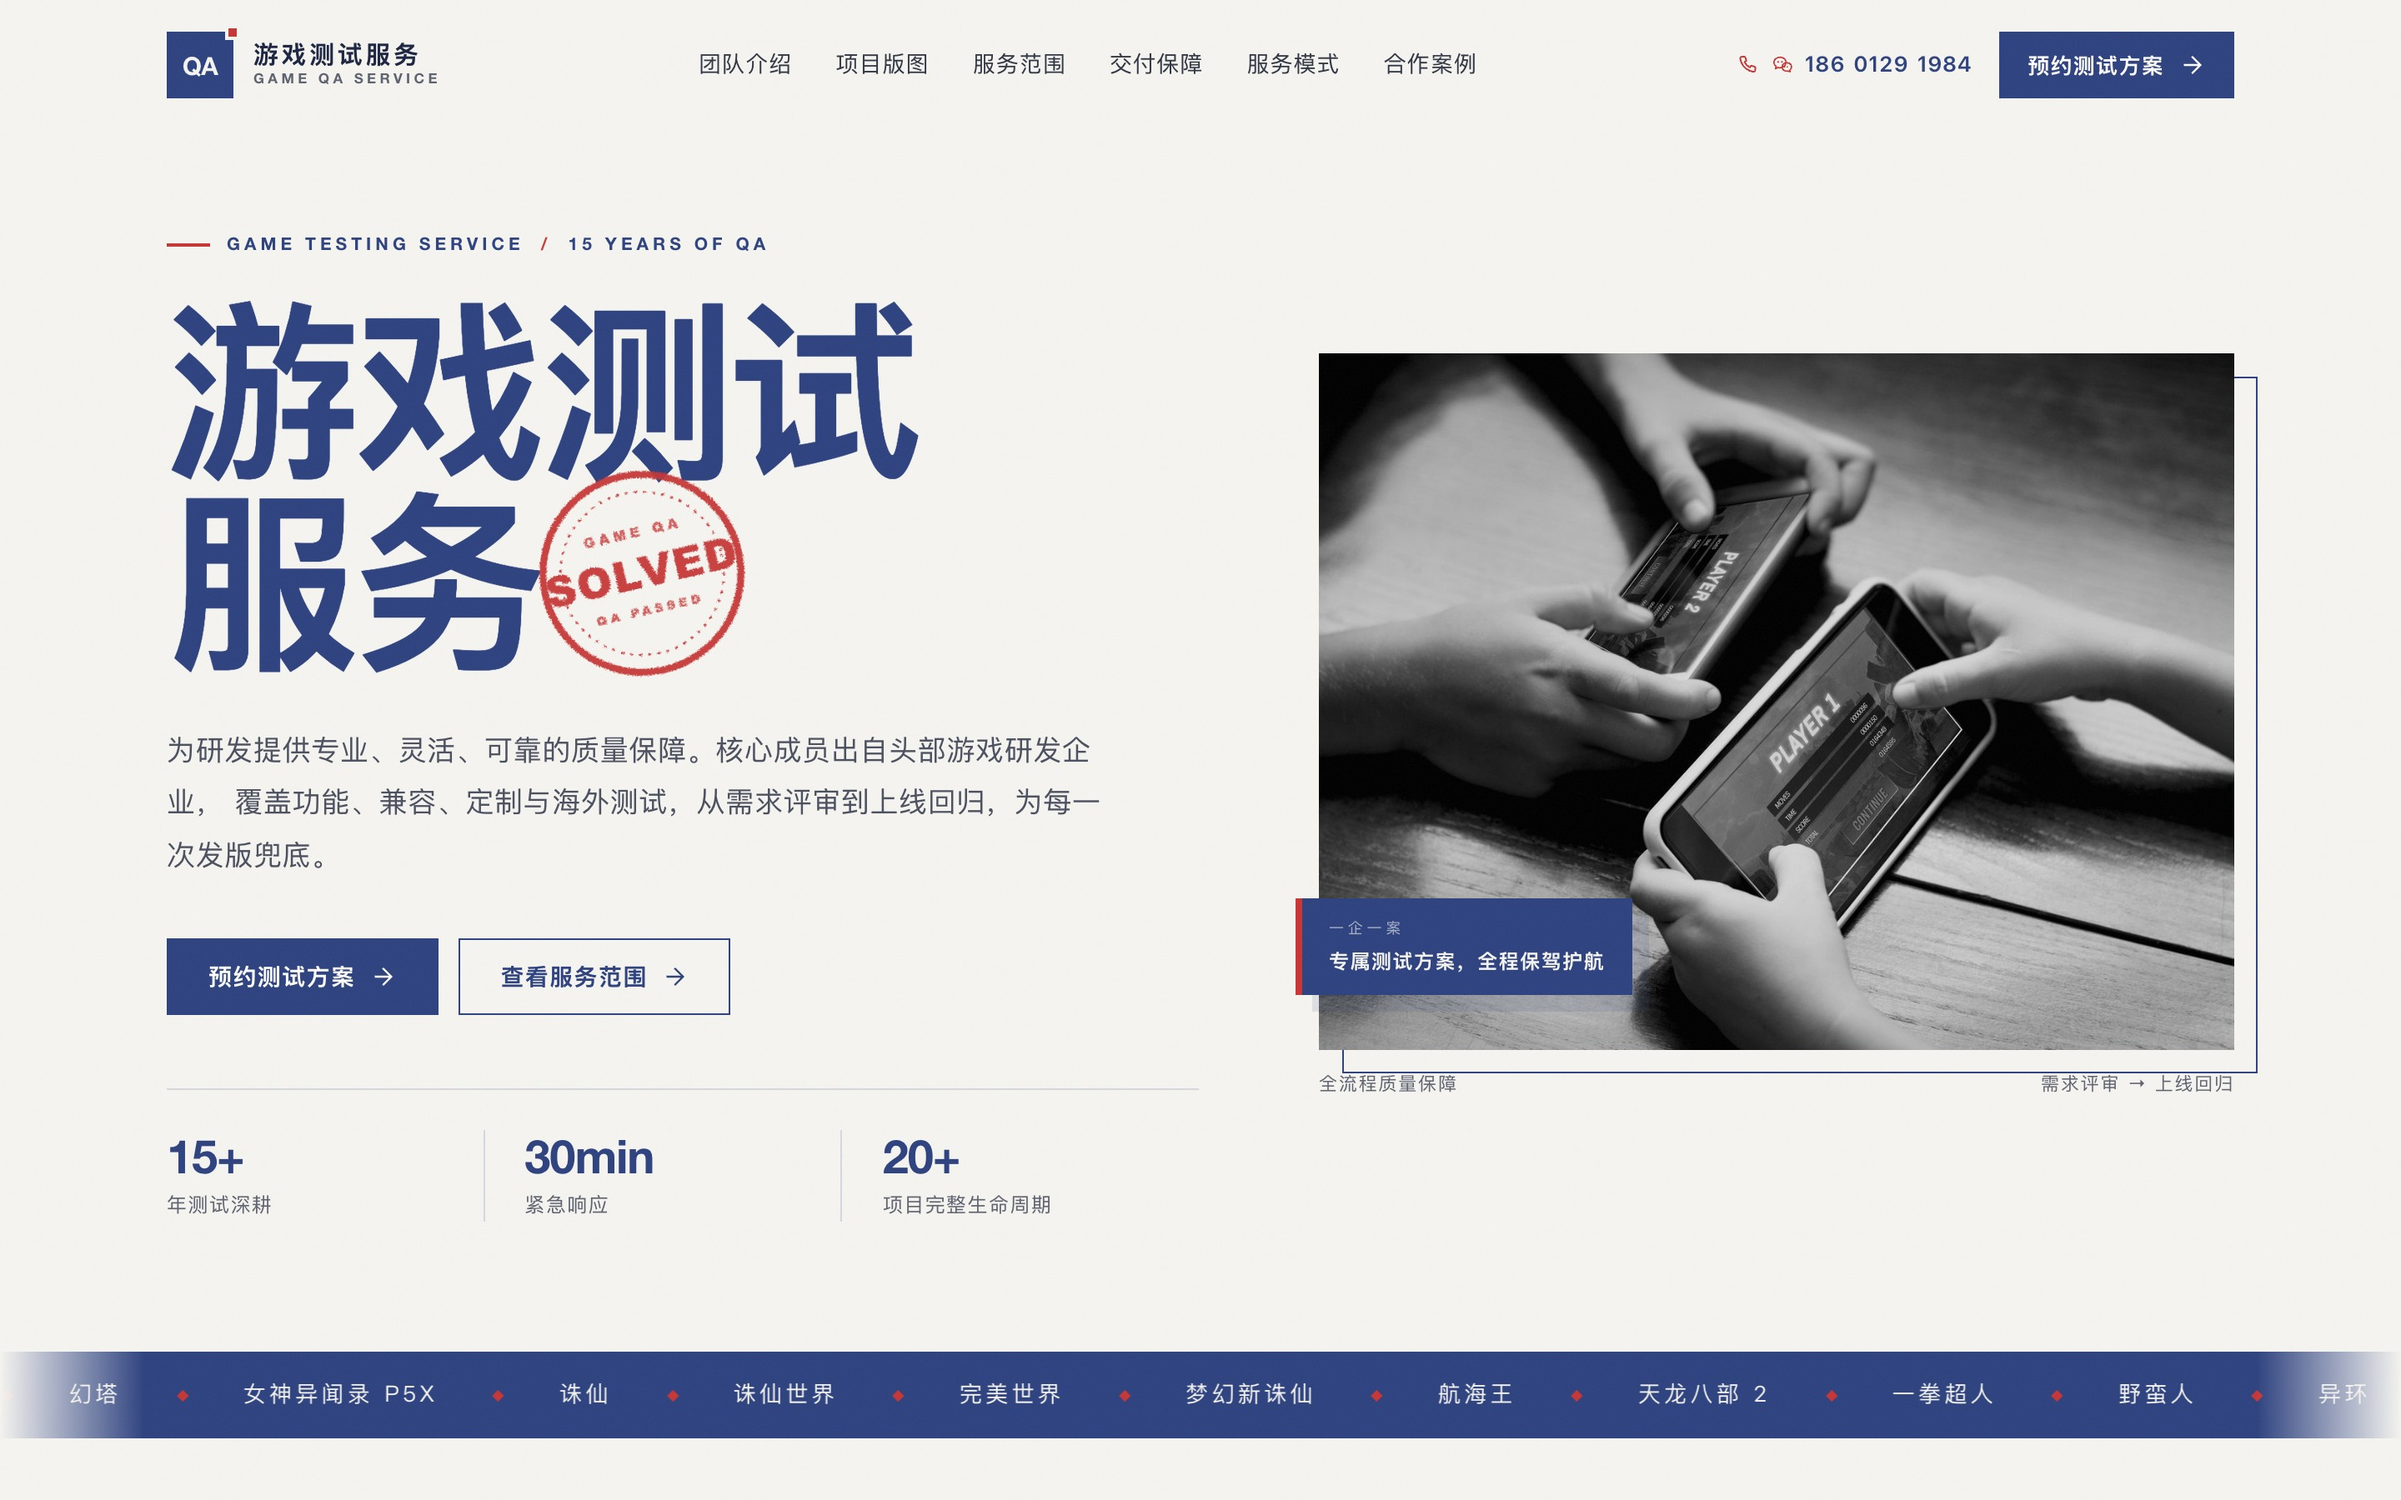
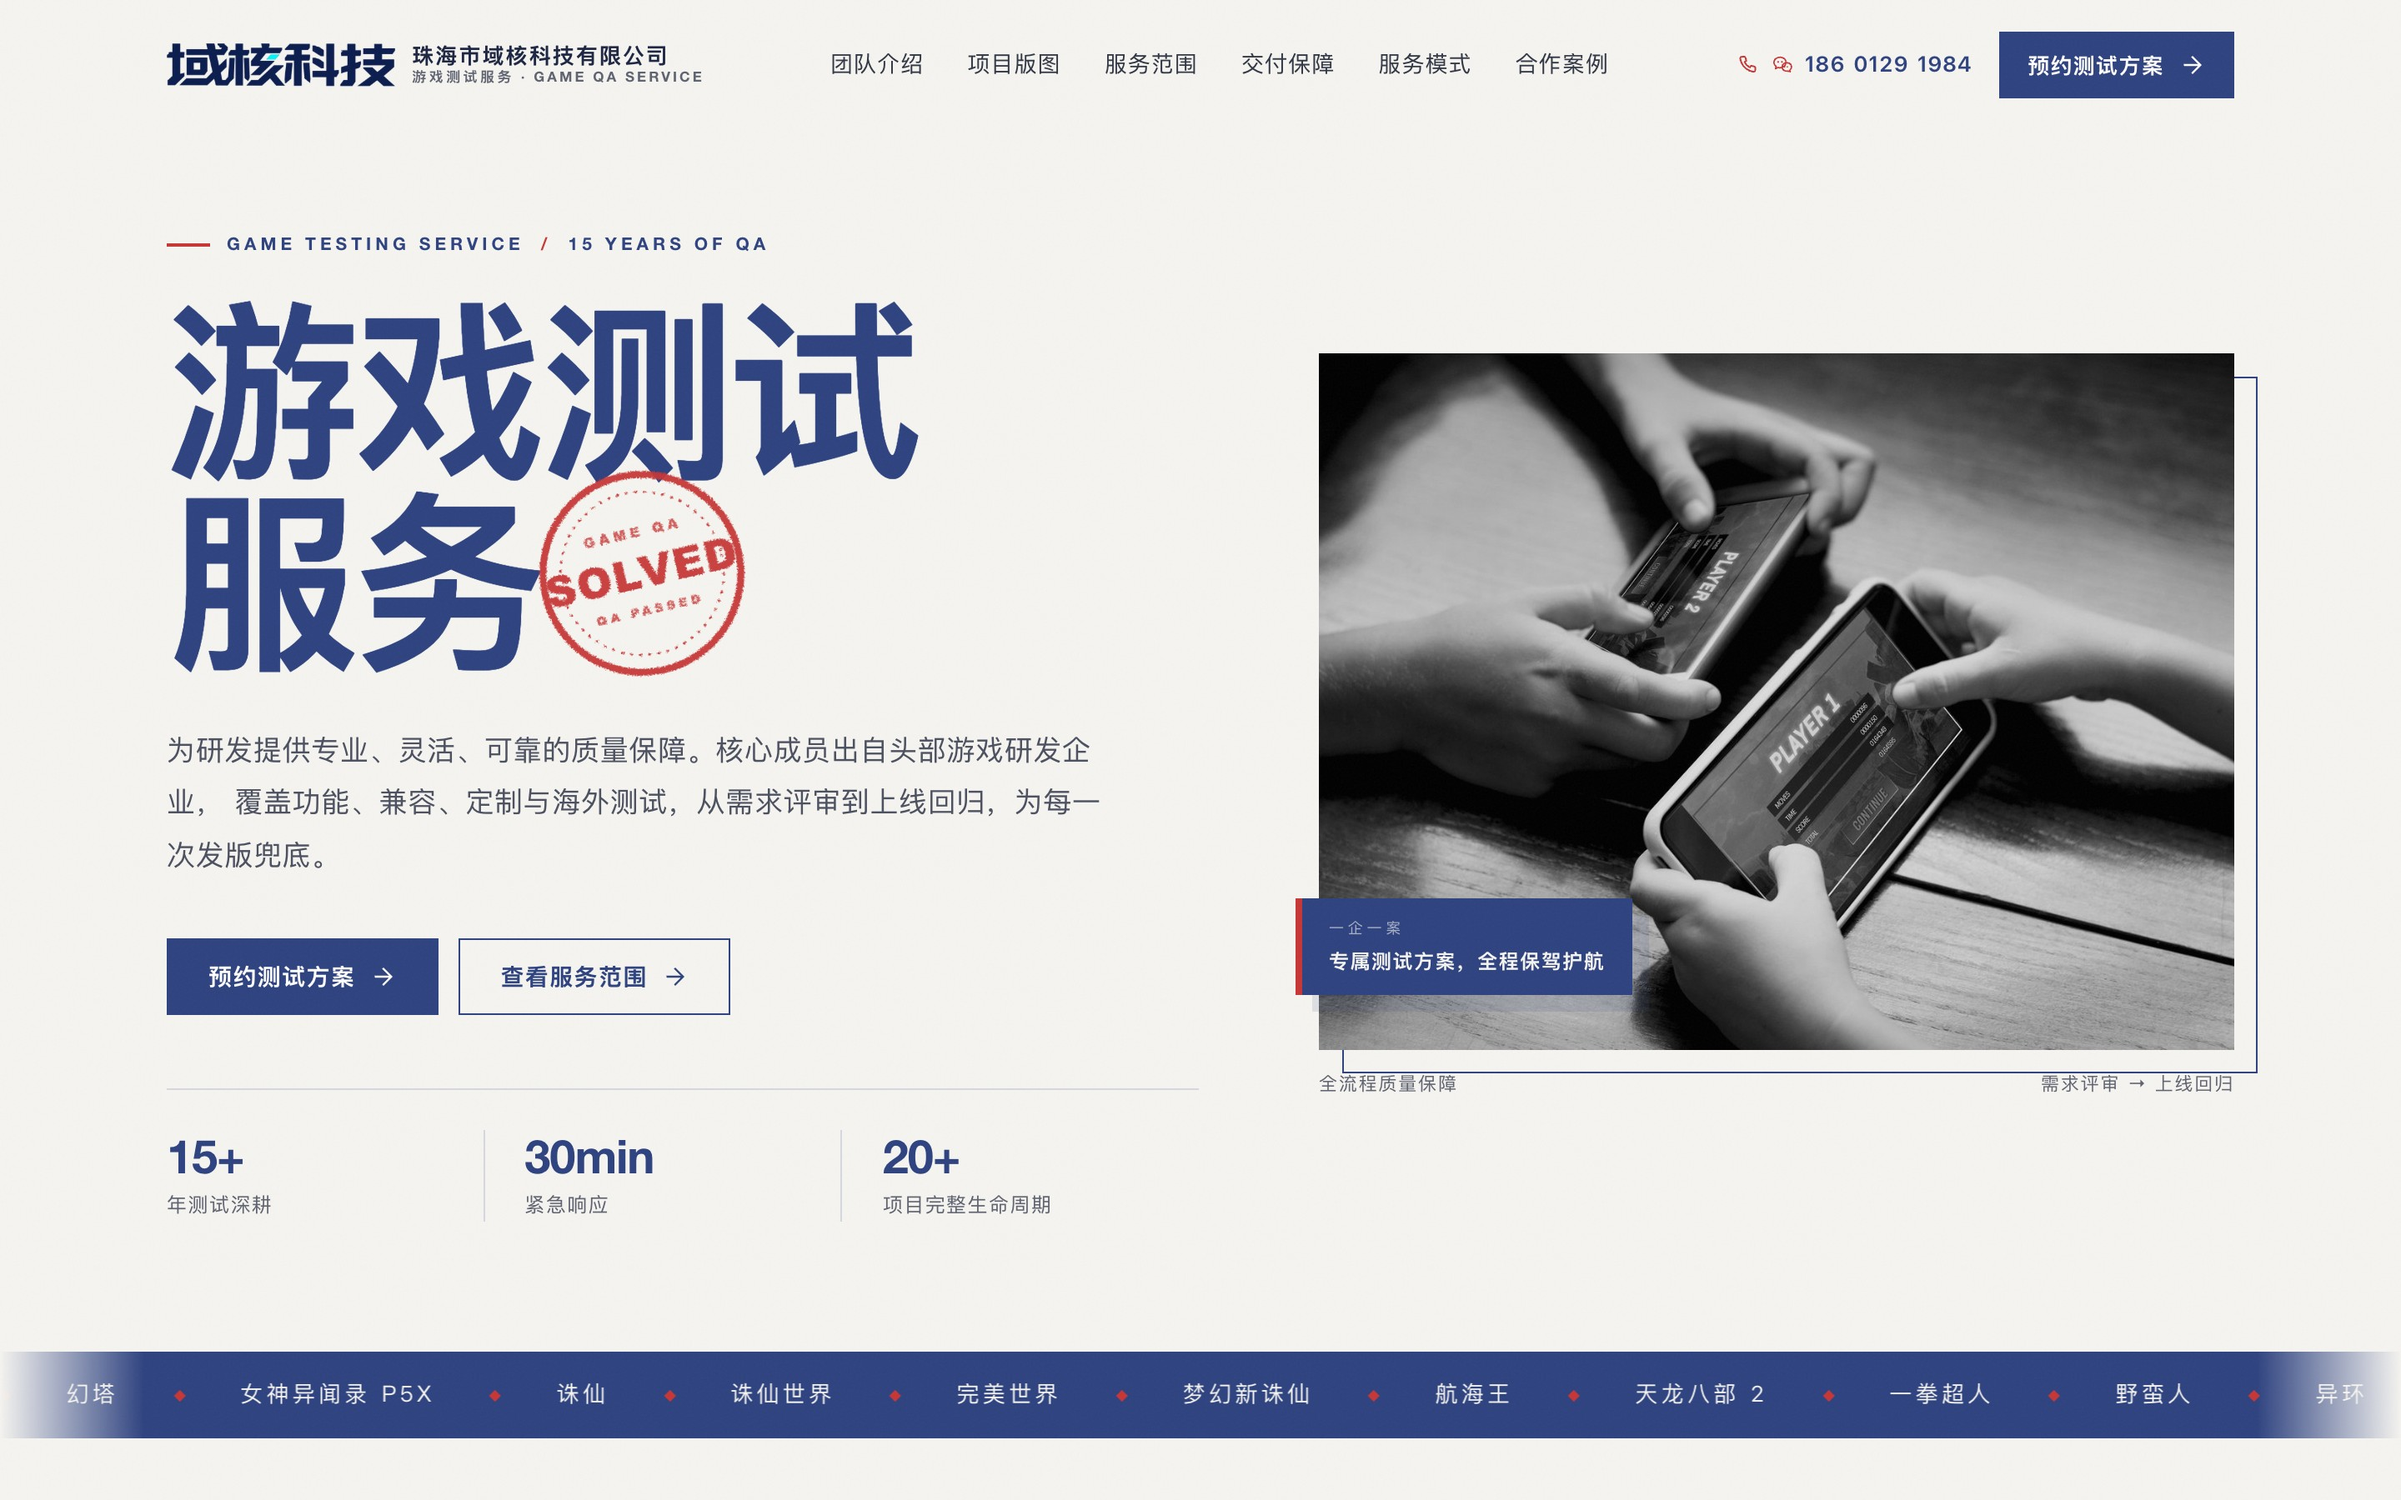
上线珠海市域核科技有限公司品牌与发行测试服务

diff --git a/index.html b/index.html
@@ -3,34 +3,35 @@
 <head>
   <meta charset="utf-8">
   <meta name="viewport" content="width=device-width, initial-scale=1">
-  <title>游戏测试服务 · 为研发提供专业、灵活、可靠的质量保障</title>
-  <meta name="description" content="15 年游戏测试经验团队，提供功能测试、兼容测试、定制与海外测试，覆盖需求评审到上线回归，支持项目制外包、人员外包与任务型测试。">
+  <title>珠海市域核科技有限公司 · 游戏测试服务｜为研发提供专业、灵活、可靠的质量保障</title>
+  <meta name="description" content="15 年游戏测试经验团队，提供功能测试、兼容测试、发行测试、定制与海外测试，覆盖需求评审到上线回归，支持项目制外包、人员外包与任务型测试。">
   <meta name="theme-color" content="#F5F4F0">
-  <meta property="og:title" content="游戏测试服务 · 为研发提供专业、灵活、可靠的质量保障">
-  <meta property="og:description" content="覆盖功能 / 兼容 / 定制 / 海外测试，服务异环、幻塔、诛仙等 20+ 项目。">
+  <meta property="og:title" content="珠海市域核科技有限公司 · 游戏测试服务">
+  <meta property="og:description" content="覆盖功能 / 兼容 / 发行 / 定制 / 海外测试，服务异环、幻塔、诛仙等 20+ 项目。">
   <meta property="og:type" content="website">
   <meta property="og:url" content="https://zhizhuer9110.github.io/game-qa-site/">
-  <meta property="og:site_name" content="游戏测试服务">
+  <meta property="og:site_name" content="珠海市域核科技有限公司">
   <meta property="og:locale" content="zh_CN">
   <meta property="og:image" content="https://zhizhuer9110.github.io/game-qa-site/assets/img/og-cover.jpg">
   <meta property="og:image:width" content="1200">
   <meta property="og:image:height" content="630">
-  <meta property="og:image:alt" content="游戏测试服务 · 15 年经验，功能 / 兼容 / 定制 / 海外测试">
+  <meta property="og:image:alt" content="珠海市域核科技有限公司 · 游戏测试服务 · 15 年经验，功能 / 兼容 / 发行 / 定制 / 海外测试">
   <meta name="twitter:card" content="summary_large_image">
   <link rel="canonical" href="https://zhizhuer9110.github.io/game-qa-site/">
-  <link rel="icon" href="assets/favicon.svg" type="image/svg+xml">
+  <link rel="icon" href="assets/img/favicon-yuhe.png" type="image/png">
   <link rel="preload" as="image" href="assets/img/players.jpg">
   <script>document.documentElement.classList.add("js");</script>
-  <link rel="stylesheet" href="assets/css/style.css?v=20261116">
+  <link rel="stylesheet" href="assets/css/style.css?v=20261117c">
   <script type="application/ld+json">
   {
     "@context": "https://schema.org",
     "@type": "ProfessionalService",
-    "name": "游戏测试服务",
-    "description": "为游戏研发提供专业、灵活、可靠的质量保障：功能测试、兼容测试、定制测试与海外测试，支持项目制外包、人员外包与任务型测试。",
+    "name": "珠海市域核科技有限公司",
+    "alternateName": "游戏测试服务",
+    "description": "为游戏研发提供专业、灵活、可靠的质量保障：功能测试、兼容测试、发行测试、定制测试与海外测试，支持项目制外包、人员外包与任务型测试。",
     "telephone": "+86-186-0129-1984",
     "areaServed": "CN",
-    "serviceType": ["游戏功能测试", "游戏兼容测试", "游戏测试外包", "海外本地化测试"]
+    "serviceType": ["游戏功能测试", "游戏兼容测试", "游戏发行测试", "游戏测试外包", "海外本地化测试"]
   }
   </script>
 </head>
@@ -81,11 +82,11 @@
 
 <header class="site-header" id="siteHeader">
   <div class="shell header-inner">
-    <a class="brand" href="#top" aria-label="游戏测试服务 首页">
-      <span class="brand-mark" aria-hidden="true">QA<span class="brand-dot"></span></span>
+    <a class="brand" href="#top" aria-label="珠海市域核科技有限公司 · 游戏测试服务首页">
+      <img class="brand-logo" src="assets/img/logo-yuhe.png" alt="域核科技" width="844" height="160">
       <span class="brand-text">
-        <strong>游戏测试服务</strong>
-        <em>GAME QA SERVICE</em>
+        <strong>珠海市域核科技有限公司</strong>
+        <em>游戏测试服务 · GAME QA SERVICE</em>
       </span>
     </a>
 
@@ -131,7 +132,7 @@
         </h1>
         <p class="hero-lede reveal" style="--d:140ms">
           为研发提供专业、灵活、可靠的质量保障。核心成员出自头部游戏研发企业，
-          覆盖功能、兼容、定制与海外测试，从需求评审到上线回归，为每一次发版兜底。
+          覆盖功能、兼容、发行、定制与海外测试，从需求评审到上线回归，为每一次发版兜底。
         </p>
         <div class="hero-actions reveal" style="--d:200ms">
           <a class="btn" href="#contact">预约测试方案<svg class="ico" aria-hidden="true"><use href="#i-arrow"/></svg></a>
@@ -273,10 +274,10 @@
           <p class="sec-en">SERVICE SCOPE</p>
         </div>
         <span class="sec-line" aria-hidden="true"></span>
-        <p class="sec-side">基础测试 + 定制测试 + 海外测试</p>
+        <p class="sec-side">功能 / 兼容 / 发行 + 定制 / 海外</p>
       </header>
 
-      <p class="sec-lede reveal">除基础测试服务外，支持根据项目需求定制测试内容，并提供海外测试服务，如特定场景验证、多语言与本地化测试、区域网络环境测试及海外设备适配等。</p>
+      <p class="sec-lede reveal">除功能、兼容等基础测试外，提供发行测试、定制测试与海外测试，如特定场景验证、多语言与本地化测试、区域网络环境测试及海外设备适配等。</p>
 
       <div class="service-grid">
         <article class="svc-card reveal">
@@ -308,6 +309,21 @@
               <li>深度兼容</li><li>定制兼容</li>
             </ul>
             <p class="svc-desc">国内外 Android TOP 100 真机 · iOS 真机 · 主流系统版本 · 主流分辨率 · 直屏 · 曲面屏 · 折叠屏……</p>
+          </div>
+        </article>
+
+        <article class="svc-card reveal" style="--d:200ms">
+          <div class="svc-media">
+            <img src="assets/img/handle.jpg" width="1200" height="800" alt="复古游戏卡带，发行测试" loading="lazy">
+            <span class="svc-index">03</span>
+          </div>
+          <div class="svc-body">
+            <p class="svc-kicker">RELEASE TESTING</p>
+            <h3>发行测试</h3>
+            <ul class="svc-list svc-list-wide">
+              <li>短时间高效</li><li>全流程测试反馈</li>
+            </ul>
+            <p class="svc-desc">合作项目：米塔、捉迷藏</p>
           </div>
         </article>
       </div>
@@ -589,13 +605,15 @@
 <footer class="site-footer">
   <div class="shell footer-grid">
     <div class="footer-brand">
-      <span class="brand-mark" aria-hidden="true">QA<span class="brand-dot"></span></span>
+      <img class="footer-logo" src="assets/img/logo-yuhe-light.png" alt="域核科技" width="844" height="160">
+      <strong class="footer-company">珠海市域核科技有限公司</strong>
       <p>为研发提供专业、灵活、可靠的质量保障。</p>
     </div>
     <nav class="footer-nav" aria-label="页脚导航">
       <h3>服务</h3>
       <a href="#service">功能测试</a>
       <a href="#service">兼容测试</a>
+      <a href="#service">发行测试</a>
       <a href="#service">定制与海外测试</a>
       <a href="#models">测试外包</a>
     </nav>
@@ -614,7 +632,7 @@
     </div>
   </div>
   <div class="shell footer-bottom">
-    <span>© <span id="year">2026</span> 游戏测试服务 · GAME QA SERVICE</span>
+    <span>© <span id="year">2026</span> 珠海市域核科技有限公司 · 游戏测试服务</span>
     <span>本页面内容依据《游戏测试服务》方案整理</span>
   </div>
 </footer>

diff --git a/assets/css/style.css b/assets/css/style.css
@@ -717,7 +717,7 @@ body.nav-open { overflow: hidden; }
 /* ---------- Service ---------- */
 .service-grid {
   display: grid;
-  grid-template-columns: 1fr 1fr;
+  grid-template-columns: repeat(3, 1fr);
   gap: clamp(20px, 3vw, 32px);
 }
 .svc-card {
@@ -1781,4 +1781,61 @@ body.nav-open .mobile-cta { opacity: 0; pointer-events: none; }
   }
   .js .reveal { opacity: 1; transform: none; }
   .marquee-track { animation: none; }
+}
+
+/* 域核科技品牌：Logo + 公司全称 */
+.brand { gap: 10px; }
+.brand-logo { height: 26px; width: auto; display: block; flex: none; }
+.brand-text strong { font-size: 13px; letter-spacing: .06em; white-space: nowrap; }
+.brand-text em { letter-spacing: .18em; }
+.footer-logo { height: 24px; width: auto; display: block; }
+.footer-company {
+  display: block;
+  margin-top: 10px;
+  font-size: 12px;
+  font-weight: 600;
+  letter-spacing: .06em;
+  color: var(--paper);
+}
+.footer-brand p { margin-top: 8px; }
+@media (max-width: 760px) {
+  .brand { gap: 8px; }
+  .brand-logo { height: 20px; }
+  .brand-text strong { font-size: 11.5px; letter-spacing: .04em; }
+  .brand-text em { display: none; }
+}
+@media (max-width: 380px) {
+  .brand-logo { height: 18px; }
+  .brand-text strong { font-size: 10.5px; }
+}
+
+/* 三张服务卡：中屏 2+1，手机端单列 */
+@media (max-width: 1080px) {
+  .service-grid { grid-template-columns: 1fr 1fr; }
+  .svc-card:last-child {
+    grid-column: 1 / -1;
+    display: grid;
+    grid-template-columns: 1fr 1fr;
+  }
+  .svc-card:last-child .svc-media { height: 100%; }
+  .svc-card:last-child .svc-media img {
+    height: 100%;
+    aspect-ratio: auto;
+    object-fit: cover;
+  }
+  .svc-card:last-child .svc-body {
+    display: flex;
+    flex-direction: column;
+    justify-content: center;
+  }
+}
+@media (max-width: 900px) {
+  .service-grid { grid-template-columns: 1fr; }
+  .svc-card:last-child {
+    display: flex;
+    flex-direction: column;
+    grid-column: auto;
+  }
+  .svc-card:last-child .svc-media { height: auto; }
+  .svc-card:last-child .svc-media img { height: auto; aspect-ratio: 16 / 9; }
 }

diff --git a/404.html b/404.html
@@ -5,8 +5,8 @@
   <meta name="viewport" content="width=device-width, initial-scale=1">
   <meta name="theme-color" content="#F5F4F0">
   <meta name="robots" content="noindex">
-  <title>404 · 页面不存在 | 游戏测试服务</title>
-  <link rel="icon" href="/game-qa-site/assets/favicon.svg" type="image/svg+xml">
+  <title>404 · 页面不存在 | 珠海市域核科技有限公司</title>
+  <link rel="icon" href="assets/img/favicon-yuhe.png" type="image/png">
   <style>
     :root {
       --paper: #F5F4F0;

diff --git a/README.md b/README.md
@@ -38,7 +38,7 @@ NewTeam/
 | 首屏 | 游戏测试服务 / 质量保障主张 / 关键数字 | P1 封面 |
 | 01 团队介绍 | 15 年经验、核心成员背景、项目量级 | P3–P4 |
 | 02 项目版图 | 平台 / 类型 / 市场 + 26 个项目名 | P5 |
-| 03 服务范围 | 功能测试、兼容测试、定制 & 海外测试 | P6–P7 |
+| 03 服务范围 | 功能测试、兼容测试、发行测试、定制 & 海外测试 | P6–P7 |
 | 04 交付保障 | 过程保障、成果交付、安全保密 + 4 个 KPI | P8–P9 |
 | 05 服务模式 | 项目制外包、人员外包、任务型 / 模块化 | P10–P11 |
 | 06 合作案例 | 野蛮人（全流程托管）、异环（任务型） | P12–P14 |
@@ -62,7 +62,7 @@ NewTeam/
 
 ## 需要替换 / 确认的地方
 
-1. **品牌名**：原方案未提供公司名，顶部暂时使用「游戏测试服务 / GAME QA SERVICE」作为品牌位。替换 `index.html` 中 `.brand` 的文案即可；如提供 Logo，可替换 `.brand-mark`。
+1. **公司名 / Logo**：公司全称统一为「珠海市域核科技有限公司」；页头使用 `assets/img/logo-yuhe.png`，深色页脚使用 `assets/img/logo-yuhe-light.png`。「游戏测试服务」保留为服务品牌与副标题；如需换 Logo，替换这两个 PNG 即可。
 2. **联系方式**：目前使用原方案尾页的王萌 `186 0129 1984`，全站共 6 处 `tel:+8618601291984`，改名或换号时请一并修改。
 3. **案例游戏截图**：野蛮人 / 异环的两张圆形缩略图来自原方案，版权归对应项目方；对外发布前请确认可用范围。
 4. **项目清单**：`index.html` 中 `.wall-list` 可直接增删项目名。
